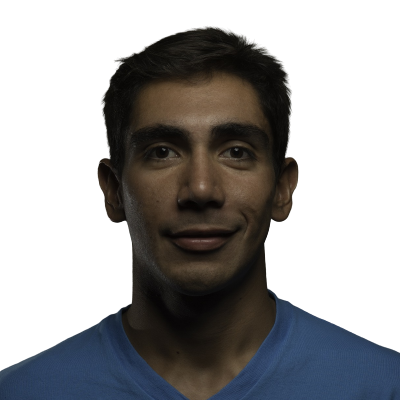
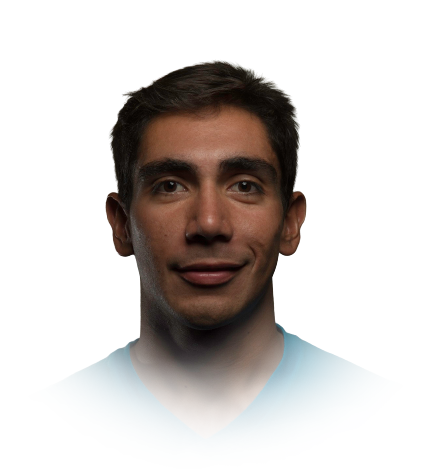
detalles esteticos de foto

diff --git a/src/FotoPerfil/FotoPerfil.scss b/src/FotoPerfil/FotoPerfil.scss
@@ -3,19 +3,19 @@
     width: 300px;
     height: 290px;
     margin-top: -250px;
-    margin-left: 90px;
+    margin-left: 130px;
     z-index: 10;
     position: absolute;
-    
     img{
         width: 300px;
         height: 290px;
         object-fit: cover;
-        border-radius: 50%;
-      /*  border: black 5px solid;  */
+      /*  border: black 5px solid;   */
         animation: fadeInAnimation1  ease 4s;
         animation-iteration-count: 1;
-        filter: drop-shadow(0 0 2px rgba(0, 94, 255, 0.8));
+        
+
+        
     }
     @keyframes fadeInAnimation1 {
         0% {

diff --git a/src/BodyContainer/BodyContainer.scss b/src/BodyContainer/BodyContainer.scss
@@ -1,12 +1,11 @@
 .bodyContainer{
-    background-color: rgb(5, 5, 5);
     border-top-right-radius: 30px;
     margin: -40px 0 0 0;
     height: auto;
     .dinamicText div{
         height: 100px;
-        margin-right: 25px;
-        padding-top: 35px;
+        margin-left: 25px;
+        padding-top: 45px;
         z-index: 10;
         color: #024fd0bd;
         font-weight: 700;

diff --git a/src/Contacto/Contacto.js b/src/Contacto/Contacto.js
@@ -42,6 +42,7 @@ const Contacto =()=>{
     // action="c4da5ffe16f2017c6b7b40a809c770c7" method="POST"
     return (
         <div className="contacto">
+            <p>Hablamos?</p>
             <form className="formulario" onSubmit={handleSubmit(onSubmit)}>
                     <div className="labelFormContacto">
                         <label>Nombre</label>

diff --git a/src/Contacto/Contacto.scss b/src/Contacto/Contacto.scss
@@ -6,6 +6,14 @@
     color: white;
     margin-top: 10vh;
     padding-bottom: 15vh;
+    p{
+        color: rgb(3, 63, 166);
+        text-align: center;
+        font-size: 1.5rem;
+        font-weight: 500;
+        margin-bottom: 50px;
+        
+    }
     .formulario{
         display: flex;
         flex-direction: column;

diff --git a/src/App.scss b/src/App.scss
@@ -17,6 +17,7 @@ body{
     background-size: cover;
     */
     background-color: black;
+    overflow-x: hidden;
 }
 
 /* Barra lateral para Firefox */
